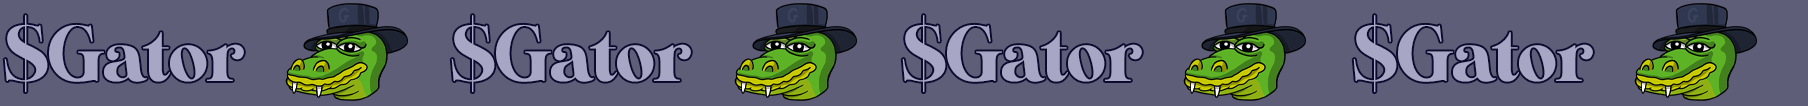
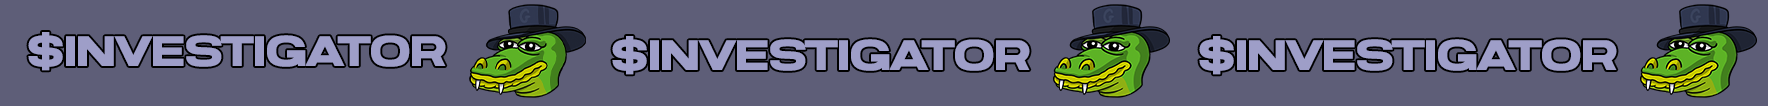
vdf

diff --git a/src/sections/About.jsx b/src/sections/About.jsx
@@ -5,7 +5,7 @@ const About = () => {
   return (
     <section id="about" className="w-full flex flex-col lg:flex-row justify-center items-center min-h-screen gap-10 px-5 pt-0 mt-0 pb-0 mb-0">
       <div className="lg:w-7/12 p-4">
-        <h1 className="font-anton text-[50px] mb-4">WHO's $GATOR</h1>
+        <h1 className="font-anton text-[50px] mb-4">WHO's $INVESTIGATOR</h1>
         <h2 className="font-anton text-[30px] mb-4">
           We have all been asking for it ... $GATOR is the first detective of his kind - RUG DETECTIVE<br/>
           <br/>$GATOR has caught all kind of  greedy malicious devs <br/>From Indian devs to Retarded devs even MCdonalds devs<br/><br/>

diff --git a/src/sections/Hero.jsx b/src/sections/Hero.jsx
@@ -5,7 +5,7 @@ const Hero = () => {
       <h2 className="flex justify-center font-anton text-[22px] mb-10 mt-0 text-[#dfe2ff]">INVESTIGATOR RUG DETECTIVE</h2>
       <h1 className="flex justify-center font-anton text-[35px] mb-0 text-center px-4 break-words text-[#dfe2ff]">CA:  </h1>
       <a href="https://pump.fun/"><button className="mt-6 bg-[#5e5e78] text-[#dfe2ff] rounded-full px-10 py-4 hover:bg-[#5db226] font-anton text-[24px]">
-        BUY $GATOR
+        BUY NOW
       </button></a>
     </section>
   );
